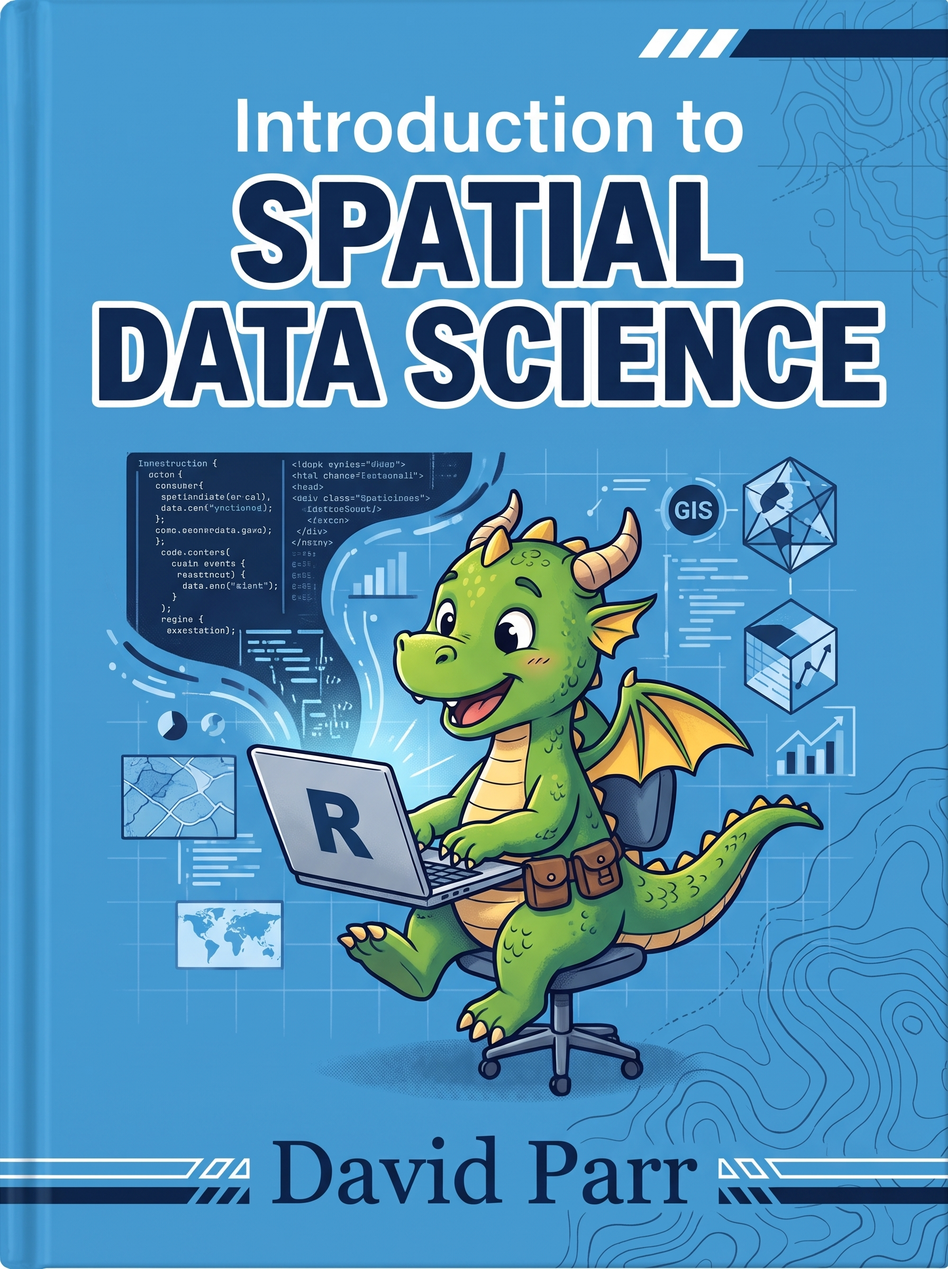
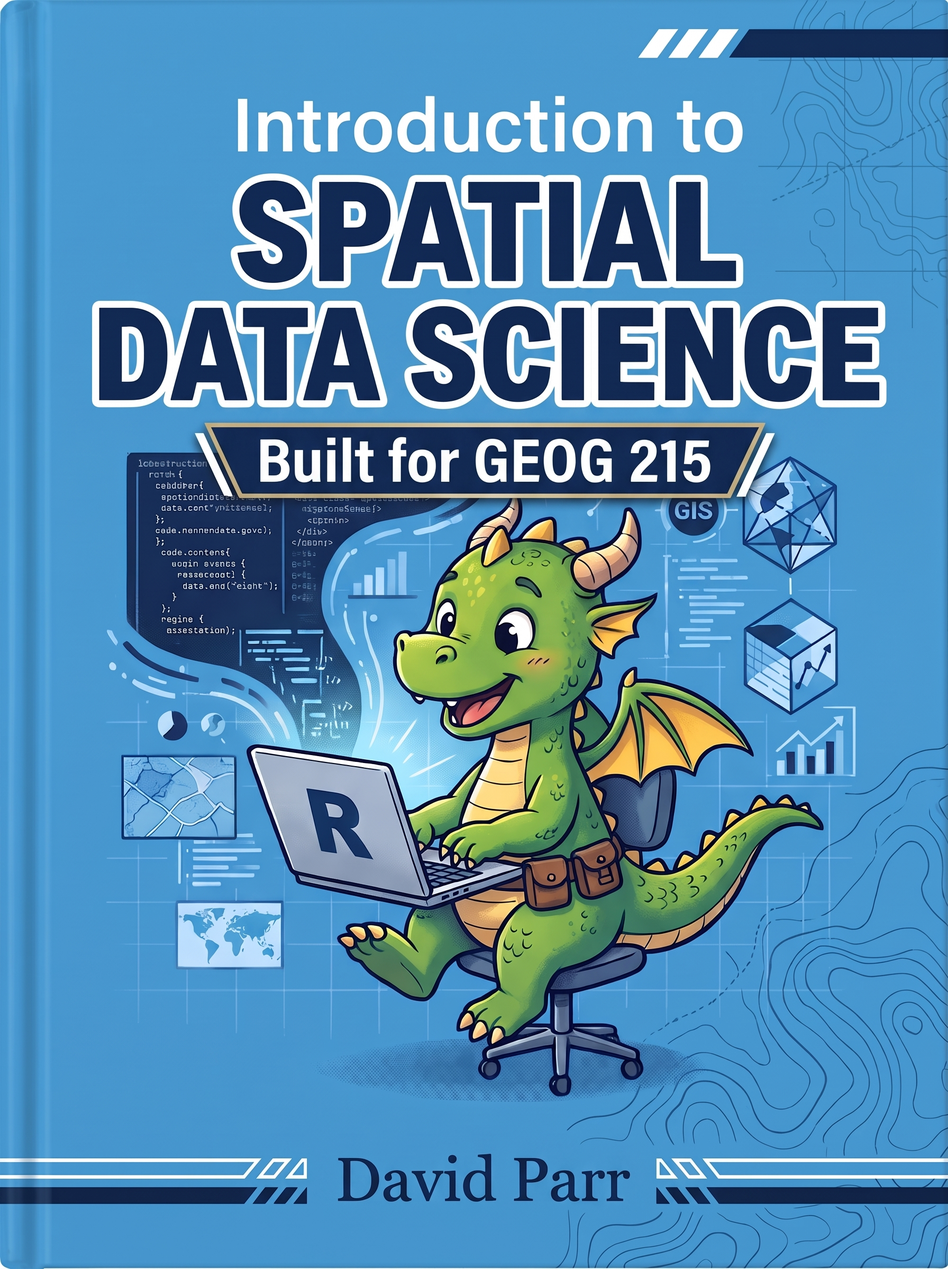
Use the new book cover for the PDF, iPhone splash, and Welcome page
Replace images/cover.jpg with the new cover (adds the Built for GEOG 215
banner), regenerate pwa/splash with scripts/make-splash.py, and show a
720px web copy (images/cover-web.jpg) beside the Welcome text, with alt
text, via assets/welcome.css.

Claude-Session: https://claude.ai/code/session_019zAzPTDjNdkZ4uKn3VGMku

diff --git a/assets/welcome.css b/assets/welcome.css
@@ -1,0 +1,27 @@
+/* Welcome page (index.qmd): the book cover sits beside the welcome text on
+   wide screens and above it, centered, on phones. images/cover-web.jpg is a
+   720px-wide copy of images/cover.jpg (the PDF cover), so the page stays light. */
+img.welcome-cover {
+  float: right;
+  width: 230px;
+  max-width: 40%;
+  height: auto;
+  margin: 0.25rem 0 1rem 1.5rem;
+  border-radius: 4px;
+  box-shadow: 0 2px 10px rgba(0, 0, 0, 0.2);
+}
+
+/* Start "On this site" and later sections below the cover. */
+main:has(img.welcome-cover) h2 {
+  clear: both;
+}
+
+@media (max-width: 575.98px) {
+  img.welcome-cover {
+    float: none;
+    display: block;
+    width: 60%;
+    max-width: 240px;
+    margin: 1rem auto 1.25rem;
+  }
+}
